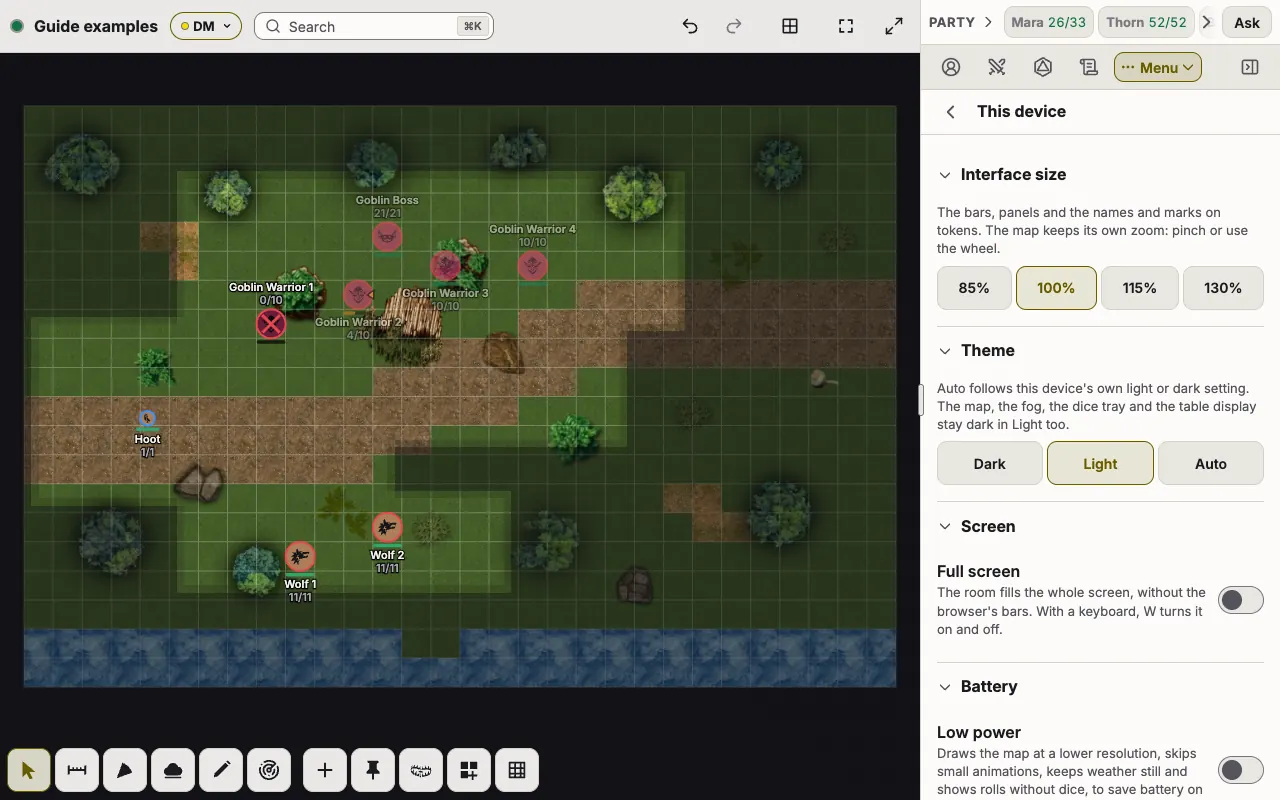
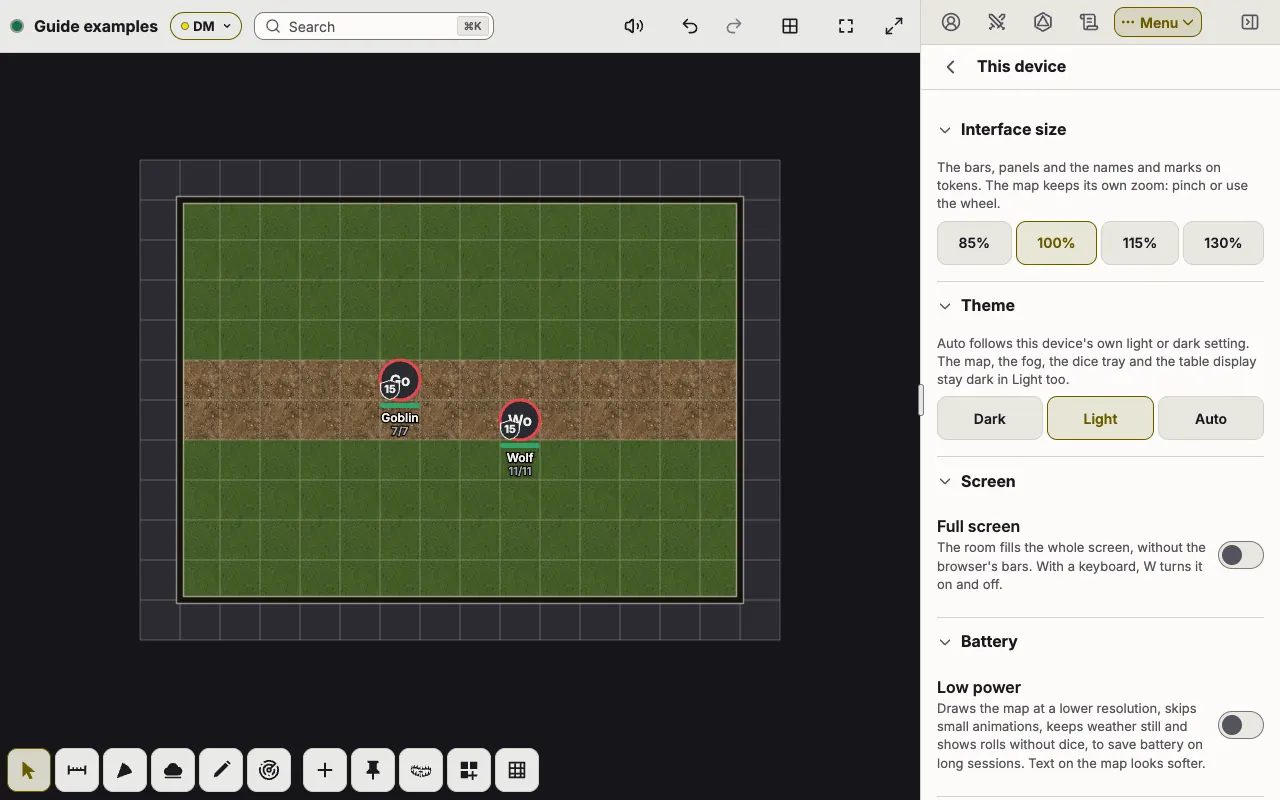
docs(guide): take the light theme picture from a script

diff --git a/scripts/guide-theme.ts b/scripts/guide-theme.ts
@@ -1,0 +1,93 @@
+/**
+ * The DM guide's picture of the light theme (docs/dm-guide.md, "This device"),
+ * taken from the real server on the production build so it always shows the
+ * app as it is:
+ *
+ * - theme.webp: This device on a computer with Light chosen, beside the map,
+ *   which stays dark in the light theme.
+ *
+ * It needs `pnpm build` first and a Postgres in DATABASE_URL. It makes a room,
+ * writes the picture to docs/dm-guide/ at 1280 x 800, as the guide's other
+ * pictures are, and deletes the room:
+ *
+ *   DATABASE_URL=postgres://... GUIDE_PORT=3197 node scripts/guide-theme.ts
+ */
+import { uuidv7 as randomUUID } from "../shared/ids.ts";
+import { mkdtempSync, rmSync } from "node:fs";
+import { tmpdir } from "node:os";
+import path from "node:path";
+import { chromium, type Page } from "playwright-core";
+import sharp from "sharp";
+import { openSideTab, OpSocket, ROOT, sideTabName, SocketWatch, startServer, waitFor } from "../e2e/harness.ts";
+
+const PORT = Number(process.env.GUIDE_PORT ?? 3197);
+const DATABASE_URL = process.env.DATABASE_URL ?? "postgres://raccoon:raccoon@localhost:5434/raccoon";
+const OUT = path.join(ROOT, "docs", "dm-guide");
+const WINDOW = { width: 1280, height: 800 };
+
+function actor(hp: number) {
+  return { hp: { cur: hp, max: hp, temp: 0 }, life: "alive", ac: 15, speeds: { walk: 30 }, initBonus: 0, passivePerception: 12, senses: "", effects: [], deathSaves: { ok: 0, fail: 0 }, notes: "", dmNotes: "" };
+}
+
+/** The page as the guide shows it, at the quality its other pictures use. */
+async function picture(page: Page, name: string): Promise<void> {
+  await page.locator("[data-toast]").first().waitFor({ state: "hidden", timeout: 20_000 }).catch(() => undefined);
+  await page.waitForTimeout(1000);
+  const png = await page.screenshot();
+  const info = await sharp(png).webp({ quality: 78, effort: 6 }).toFile(path.join(OUT, `${name}.webp`));
+  console.log(`${name}.webp ${info.width} x ${info.height}, ${Math.round(info.size / 1024)} KB`);
+}
+
+const work = mkdtempSync(path.join(tmpdir(), "raccoon-guide-theme-"));
+const server = await startServer({ port: PORT, assetDir: path.join(work, "assets"), databaseUrl: DATABASE_URL });
+const browser = await chromium.launch({ channel: "chrome", headless: true });
+const roomName = "Guide examples";
+let roomId = "";
+let ops: OpSocket | null = null;
+const dmContext = await browser.newContext({ viewport: WINDOW });
+try {
+  const origin = server.origin;
+  const dm = await dmContext.newPage();
+  const dmSocket = new SocketWatch("dm");
+  await dmSocket.attach(dmContext, dm);
+  await dm.goto(`${origin}/`);
+  await dm.getByLabel("Room name").fill(roomName);
+  await dm.getByLabel("Your name").fill("Dana the DM");
+  await dm.getByRole("button", { name: "Create room" }).click();
+  await dm.getByRole("heading", { name: "Save your DM link" }).waitFor();
+  const link = (await dm.locator("code").first().textContent()) ?? "";
+  roomId = /\/r\/([0-9A-Z]{4}-[0-9A-Z]{4})#dm=/.exec(link)![1]!.replace("-", "");
+  await dm.getByLabel("I saved my DM link").check();
+  await dm.getByRole("button", { name: "Continue to the room" }).click();
+  await waitFor("the DM's snapshot", () => dmSocket.state);
+  const sceneId = dmSocket.state!.meta.playerSceneId!;
+  const cookie = (await dmContext.cookies(origin)).map((c) => `${c.name}=${c.value}`).join("; ");
+  ops = await OpSocket.open({ origin, roomId, cookie });
+
+  await ops.send({ t: "scene.update", sceneId, patch: { name: "The Gilded Boar", bounds: { w: 16, h: 12 }, fogEnabled: false, defaultView: { x: 8, y: 6, zoom: 40 } } });
+  await ops.send({ t: "build.rect", sceneId, terrain: "grass", x: 1, y: 1, w: 14, h: 10 });
+  await ops.send({ t: "build.rect", sceneId, terrain: "dirt", x: 1, y: 5, w: 14, h: 2 });
+  const token = (name: string, x: number, y: number, hp: number) => ({
+    t: "token.create",
+    token: { id: randomUUID(), sceneId, kind: "monster", name, size: "medium", x, y, visibility: "all", disposition: "hostile", actor: { inline: actor(hp) } },
+  });
+  await ops.send(token("Goblin", 6, 5, 7));
+  await ops.send(token("Wolf", 9, 6, 11));
+  await dm.reload();
+  await dm.locator(".konvajs-content").first().waitFor();
+
+  await openSideTab(dm, "Menu");
+  const menu = dm.getByRole("tabpanel", { name: sideTabName("Menu") });
+  await menu.getByRole("button", { name: /^This device/ }).first().click();
+  const device = dm.getByRole("tabpanel", { name: sideTabName("Menu") });
+  await device.getByRole("radio", { name: "Light", exact: true }).or(device.getByRole("button", { name: "Light", exact: true })).first().click();
+  await device.getByText("Theme", { exact: true }).first().scrollIntoViewIfNeeded();
+  await dm.mouse.move(5, 790);
+  await picture(dm, "theme");
+} finally {
+  ops?.close();
+  if (roomId) await dmContext.request.delete(`${server.origin}/api/rooms/${roomId}`, { headers: { Origin: server.origin }, data: { name: roomName } }).catch(() => undefined);
+  await browser.close();
+  await server.stop();
+  rmSync(work, { recursive: true, force: true });
+}
